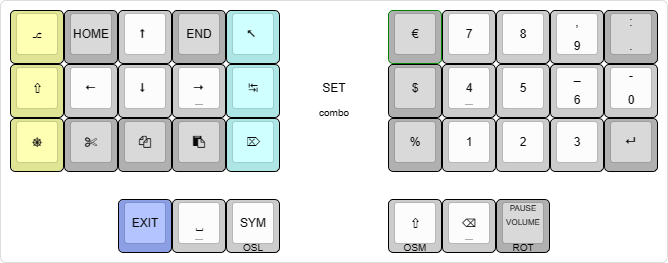
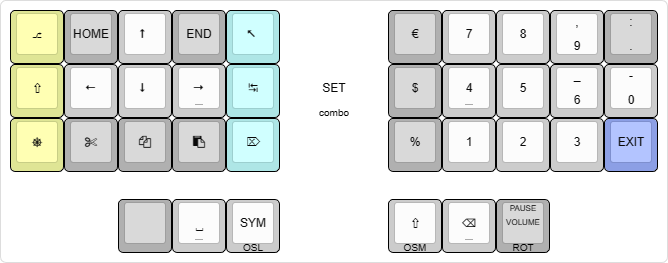
Using nav at pinky

diff --git a/docs/keymap.md b/docs/keymap.md
@@ -15,14 +15,14 @@ This didn't feel right for me, because when I decide I want to put something on 
 My keymap contains tons of custom code and concepts. If you want to really understand what's going on or would like to try out some unique features for yourself, check out my [QMK lib folder](/qmk-lib/README.md).
 
 ## Base Layer
-The layer follows Colemak Mod-DH. The non-alpha keys have been filled by most frequently used characters. The thumb keys are occupied by a symbols layer key, space, backspace and shift. Both inner (home) thumb keys can be pressed together to activate the navigation layer. The outer thumb keys are rotary encoders with key press functionality.
+The layer follows Colemak Mod-DH. The non-alpha keys have been filled by most frequently used characters. The thumb keys are occupied by space, symbols layer, backspace and nav layer keys. Enter is created with space enter, and the home keys can be pressed at the same time for caps word functionality. The outer thumb keys are rotary encoders with key press functionality.
 
 ![Base Layer](assets/keymap/base-layer.png)
 
 ## Symbols Layer
 The symbols layer consists of 3 [zones](/qmk-lib/zones/) that together fill the entire keyboard: The symbols zone, the nav bar zone and the mod zone. Note that ESC within the nav bar zone also turns that zone off.
 
-On the right there are delete, tab and escape keys. On the bottom there is ALT on the left thumb, CTRL and SHIFT on the right thumb.
+On the right there are delete, tab and escape keys. On the bottom there is CTRL on the left thumb, SHIFT and ALT on the right thumb.
 
 ![Symbols Layer](assets/keymap/symbols-layer.png)
 
@@ -39,14 +39,14 @@ Some insights on why I picked these positions for the symbols
 * Both slash types are next to each other
 
 ## Navigations Layer
-This layer can be reached by pressing the inner thumb keys at the same time. It has arrow navigation on the left and a numpad on the right. This layer automatically deactivates when pressing space, backspace or enter. The modifiers are not one shot on this layer, since they are to be used with multiple arrow key presses.
+This layer has arrow navigation on the left and a numpad on the right. It automatically deactivates when pressing space, backspace or enter. The modifiers are not one shot on this layer, since they are to be used with multiple arrow key presses.
 
-Combos on the inner column allow opening the settings layer and starting caps word.
+Pressing the inner-most home row keys at the same time opens the settings layer.
 
 ![Nav Layer](assets/keymap/nav-layer.png)
 
 ## Settings Layer
-The settings layer only contains F-keys and some locking keys, future keys for RGB or other keyboard settings will appear here too.
+The settings layer only contains F-keys, some locking keys and keys for controlling RGB settings.
 
 ![Settings Layer](assets/keymap/settings-layer.png)
 
